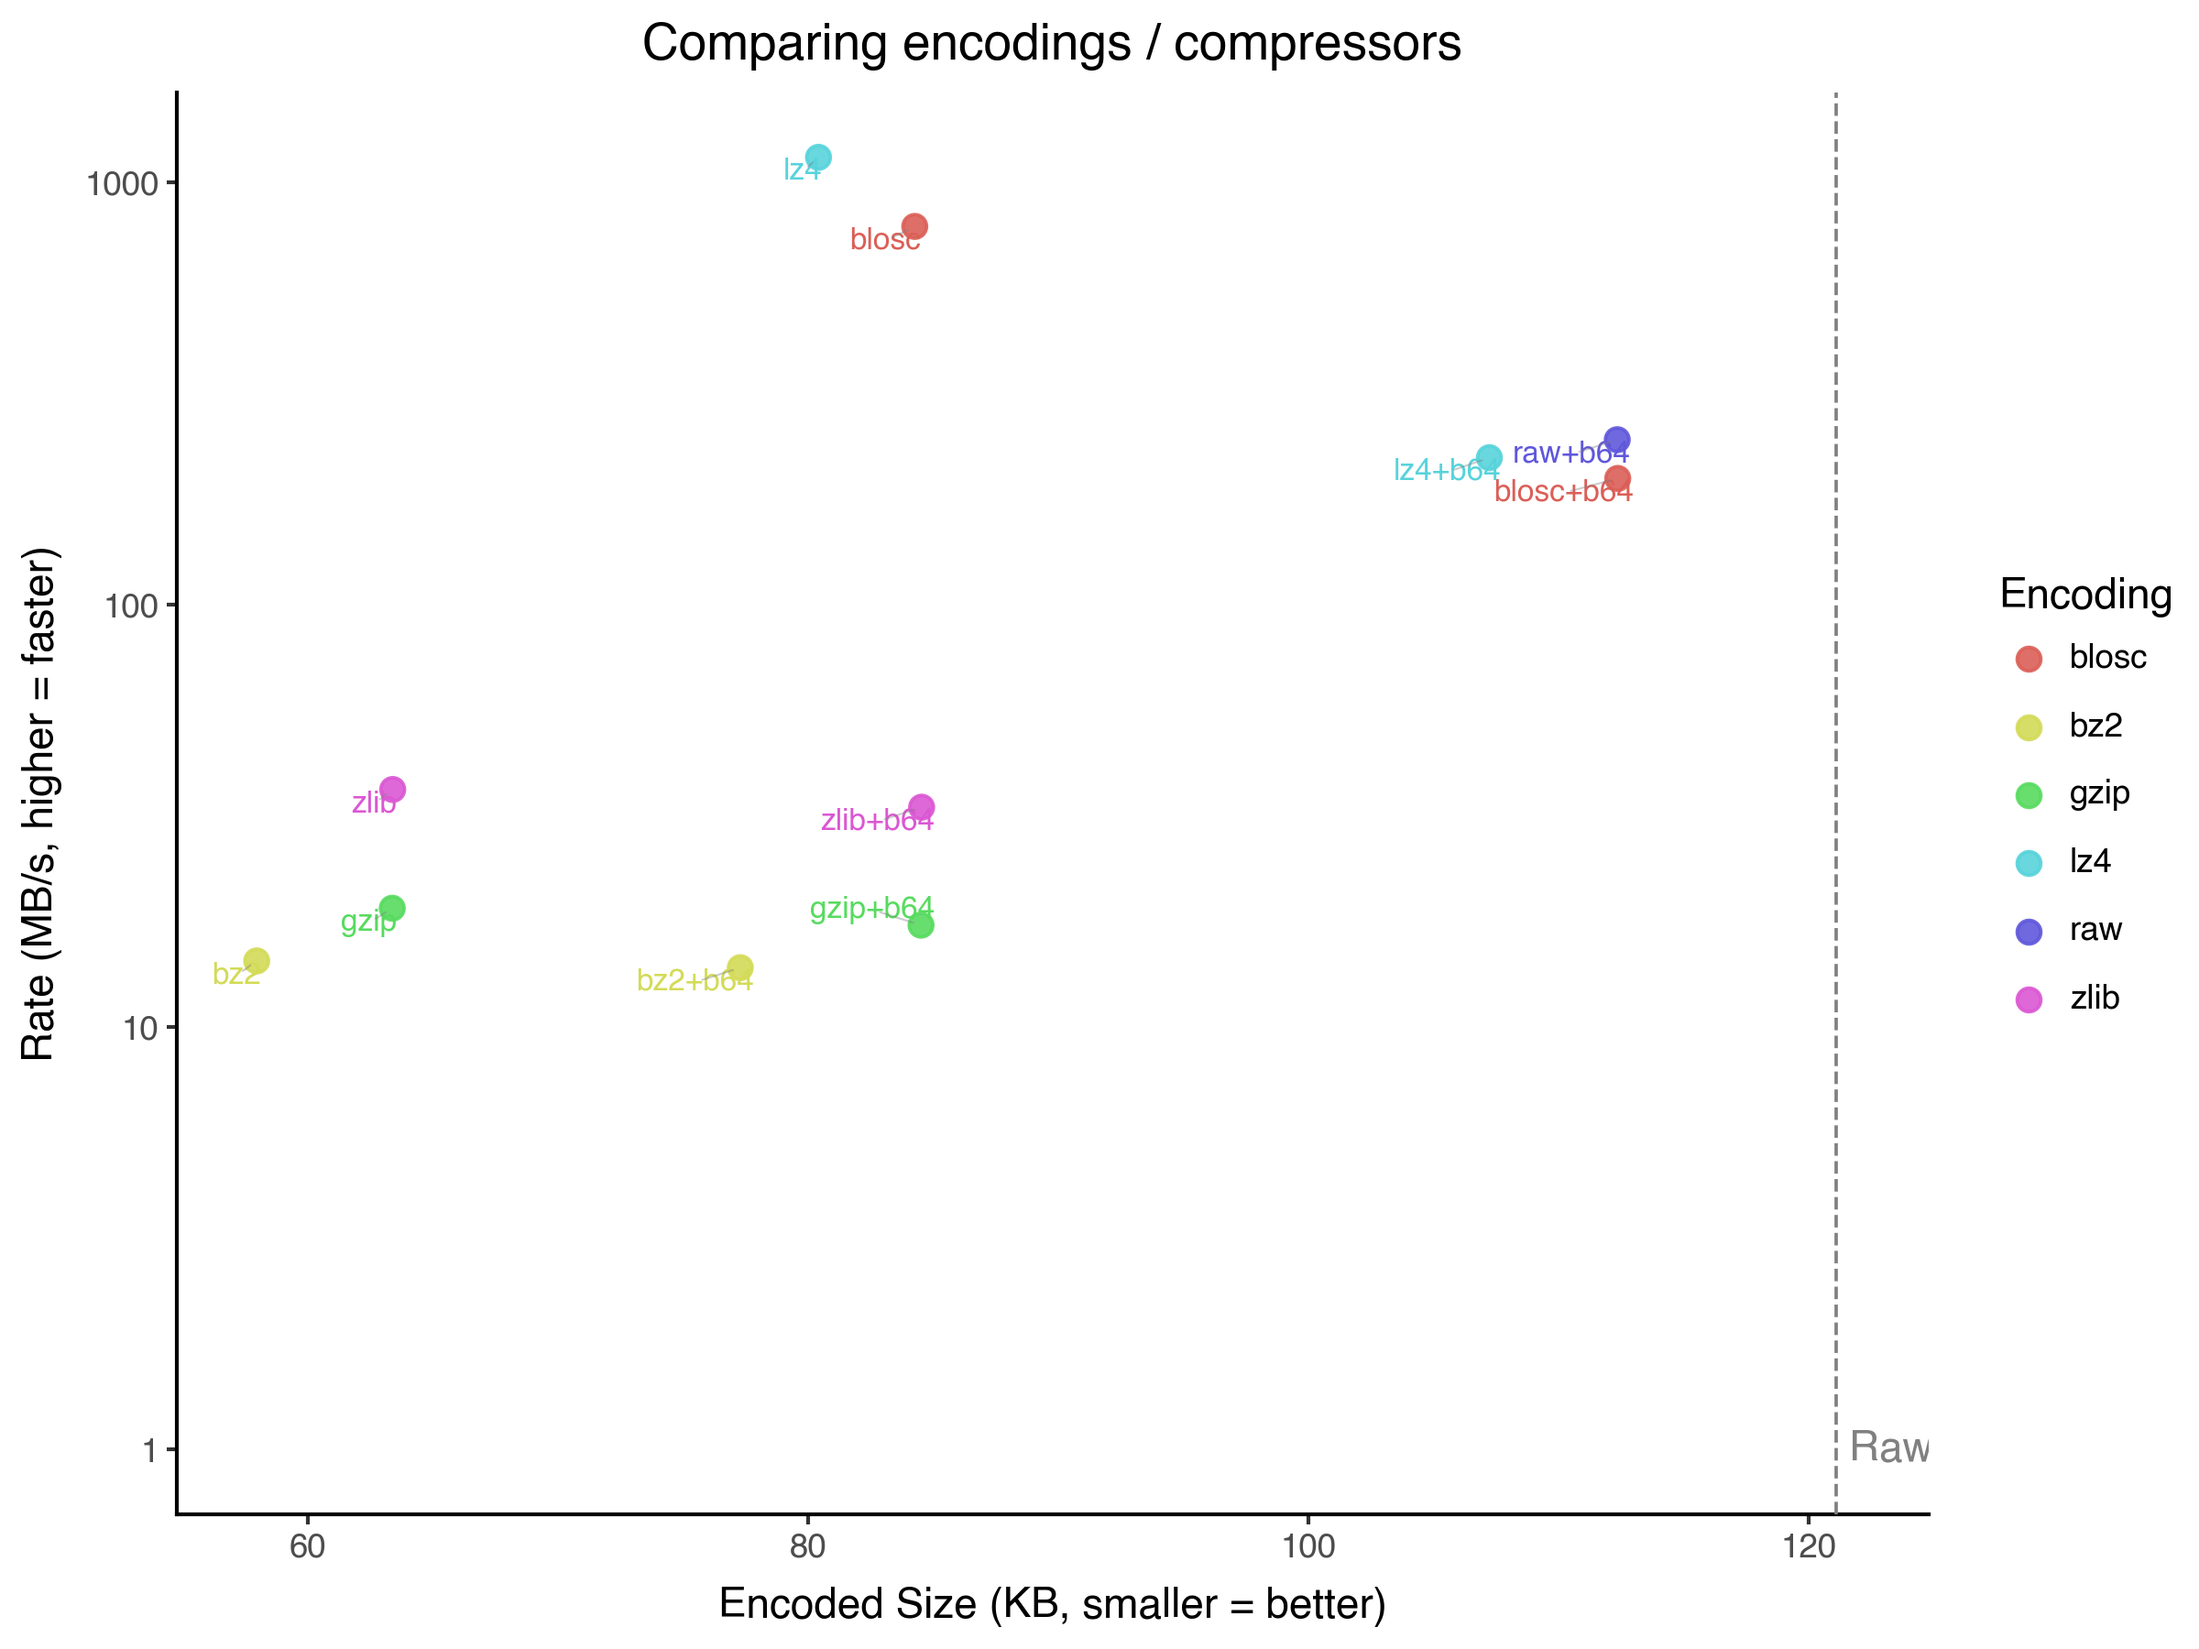
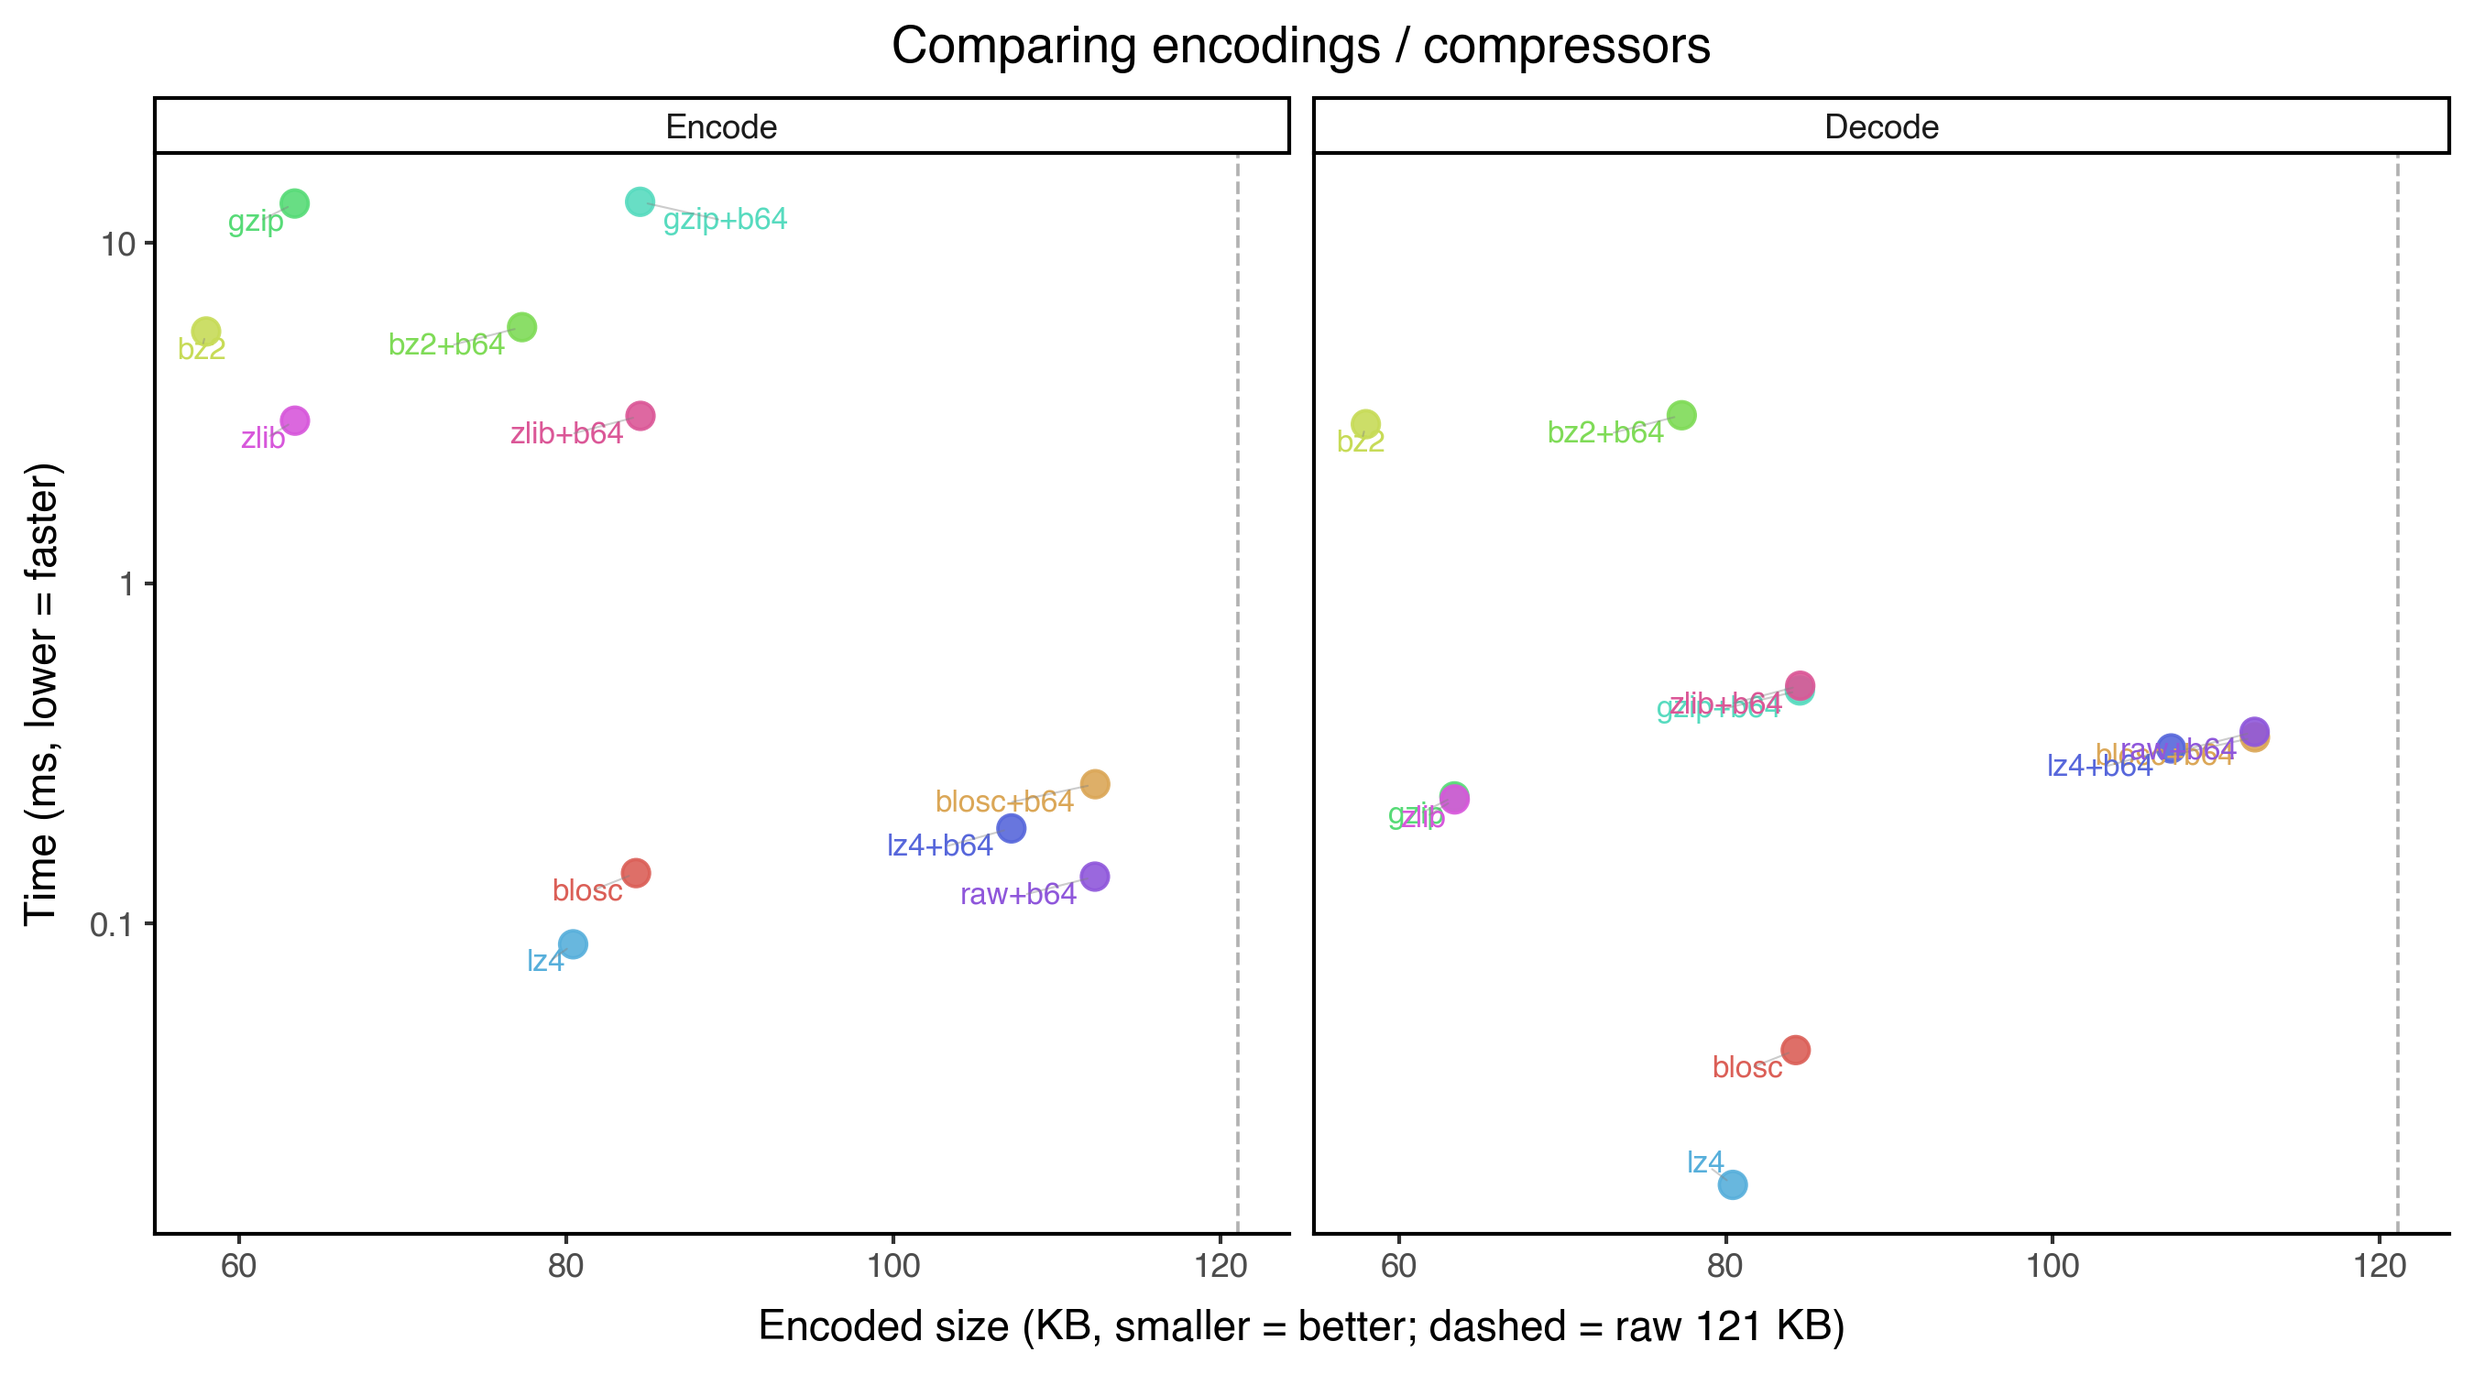
style: make all profile figures 'lower = faster' (time, not throughput)
The engine figure used time (ms, lower=faster) but serializers/encodings
used throughput (MB/s, higher=faster), so 'best' was bottom-left on one and
top-left on the others. Switch serializers and encodings to Time (ms) on the
y-axis and facet encodings by Encode|Decode, so all three read the same way:
lower = faster, bottom-left (small + fast) = best.

Claude-Session: https://claude.ai/code/session_01LfRqcpyxSXhxuANCqmkVVY

diff --git a/hashstash/profilers/engine_profiler.py b/hashstash/profilers/engine_profiler.py
@@ -810,26 +810,35 @@ class HashStashProfiler:
     def plot_encodings(cls,filename=None,**opts):
         import plotnine as p9
         import pandas as pd
-        p9.options.figure_size = (8, 6)
+        p9.options.figure_size = (9, 5)
         df = cls.run_profiles(**{**opts_encoders, **opts}).reset_index()
-        df['Rate (MB/s)'] = df['Raw Size (B)'] / (df['Encode Time (s)'] + df['Decode Time (s)']) / 1024 / 1024
-        df=df[df.Encoding!='raw']
+        df = df[df.Encoding != 'raw']
         df['Encoded Size (KB)'] = df['Encoded Size (B)'] / 1024
-        figdf = df.groupby('Encoding').agg({'Rate (MB/s)': 'median', 'Encoded Size (KB)': 'last'}).reset_index()
-        figdf['Encoding Type'] = figdf['Encoding'].str.replace('+b64','')
-        fig = p9.ggplot(figdf, p9.aes(x='Encoded Size (KB)', y='Rate (MB/s)', label='Encoding', color='Encoding Type'))
-        fig+=p9.geom_point(size=3, alpha=0.9)
-        fig+=p9.geom_text(size=8, show_legend=False, **_repel_kwargs())
-        fig+=p9.theme_classic()
-        fig+=p9.scale_y_log10()
-        rawsize = df['Raw Size (B)'].median()/1024
-        fig += p9.geom_vline(xintercept=rawsize, linetype='dashed', color='gray')
-        fig += p9.annotate("text", x=rawsize, nudge_x=.5, y=1, label=f'Raw size = {rawsize:.0f} KB', color='gray', alpha=1, ha='left')
-        fig+=p9.labs(
-            x=f'Encoded Size (KB, smaller = better)',
-            y='Rate (MB/s, higher = faster)',
-            color='Encoding',
-            title='Comparing encodings / compressors'
+        agg = df.groupby('Encoding').agg(
+            Encode=('Encode Time (s)', 'median'),
+            Decode=('Decode Time (s)', 'median'),
+            **{'Encoded Size (KB)': ('Encoded Size (KB)', 'last')},
+        ).reset_index()
+        figdf = agg.melt(
+            id_vars=['Encoding', 'Encoded Size (KB)'],
+            value_vars=['Encode', 'Decode'], var_name='Operation', value_name='Time (s)',
+        )
+        figdf['Operation'] = pd.Categorical(figdf['Operation'], categories=['Encode', 'Decode'])
+        figdf['Time (ms)'] = figdf['Time (s)'] * 1000
+        rawsize = df['Raw Size (B)'].median() / 1024
+        # faceted biplot, both axes "lower = better" (consistent with serializers)
+        fig = p9.ggplot(figdf, p9.aes(x='Encoded Size (KB)', y='Time (ms)', color='Encoding'))
+        fig += p9.facet_grid('. ~ Operation')
+        fig += p9.geom_vline(xintercept=rawsize, linetype='dashed', color='gray', alpha=0.6)
+        fig += p9.geom_point(size=3.5, alpha=0.9)
+        fig += p9.geom_text(p9.aes(label='Encoding'), size=8, show_legend=False, **_repel_kwargs())
+        fig += p9.theme_classic()
+        fig += p9.scale_y_log10()
+        fig += p9.guides(color=False)
+        fig += p9.labs(
+            x=f'Encoded size (KB, smaller = better; dashed = raw {rawsize:.0f} KB)',
+            y='Time (ms, lower = faster)',
+            title='Comparing encodings / compressors',
         )
         return _save_fig(fig, filename, "fig.comparing_encodings_size_speed.png")
         
@@ -848,10 +857,12 @@ class HashStashProfiler:
         figdf['Operation'] = figdf['Operation'].str.replace(' Time (s)', '', regex=False)
         figdf['Operation'] = pd.Categorical(figdf['Operation'], categories=['Serialize', 'Deserialize'])
         figdf['Serialized Size (KB)'] = figdf['Serialized Size (B)'] / 1024
-        figdf['Rate (MB/s)'] = figdf['Raw Size (B)'] / figdf['Time (s)'] / 1024 / 1024
+        figdf['Time (ms)'] = figdf['Time (s)'] * 1000
         # label one point per serializer (repelled) so labels don't stack
         lab = figdf.sort_values('Data Type').drop_duplicates(['Serializer', 'Operation'])
-        fig = p9.ggplot(figdf, p9.aes(x='Serialized Size (KB)', y='Rate (MB/s)', color='Serializer'))
+        # both axes "lower = better" (bottom-left is best), consistent with the
+        # engine and encoding figures
+        fig = p9.ggplot(figdf, p9.aes(x='Serialized Size (KB)', y='Time (ms)', color='Serializer'))
         fig+=p9.facet_grid('. ~ Operation')
         fig+=p9.geom_point(p9.aes(shape='Data Type'), size=3.5, alpha=0.9)
         fig+=p9.geom_text(p9.aes(label='Serializer'), data=lab, size=8, show_legend=False, **_repel_kwargs())
@@ -860,7 +871,7 @@ class HashStashProfiler:
         fig+=p9.guides(color=False)
         fig+=p9.labs(
             x='Serialized size (KB, smaller = better)',
-            y='Throughput (MB/s, higher = faster)',
+            y='Time (ms, lower = faster)',
             title='Comparing serializers'
         )
         return _save_fig(fig, filename, "fig.comparing_serializers_size_speed.png")
